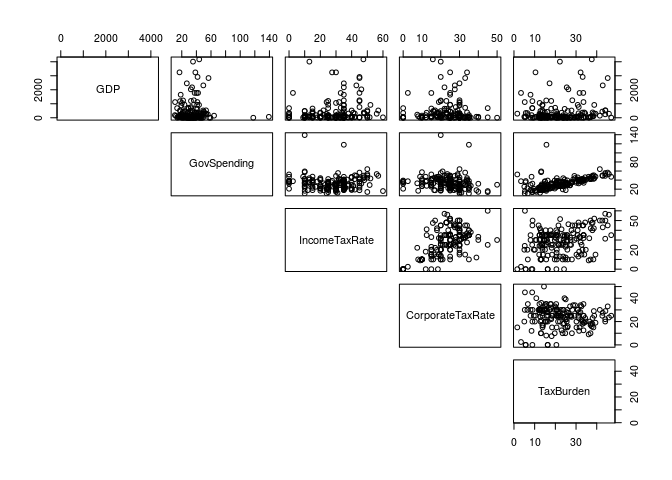
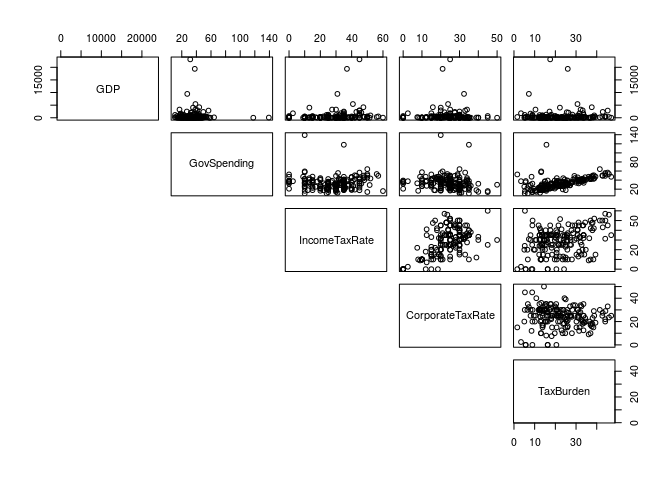
Introduction edited + Scatter matrix

diff --git a/01-proposal/proposal.md b/01-proposal/proposal.md
@@ -7,14 +7,14 @@ Rtists
 library(tidyverse)
 ```
 
-    ## ── Attaching packages ─────────────────────────────────────────────────────────────── tidyverse 1.2.1 ──
+    ## ── Attaching packages ────────────────────────────────────────────────────────────────────────────────── tidyverse 1.2.1 ──
 
     ## ✔ ggplot2 3.2.1     ✔ purrr   0.3.2
     ## ✔ tibble  2.1.3     ✔ dplyr   0.8.3
     ## ✔ tidyr   0.8.3     ✔ stringr 1.4.0
     ## ✔ readr   1.3.1     ✔ forcats 0.4.0
 
-    ## ── Conflicts ────────────────────────────────────────────────────────────────── tidyverse_conflicts() ──
+    ## ── Conflicts ───────────────────────────────────────────────────────────────────────────────────── tidyverse_conflicts() ──
     ## ✖ dplyr::filter() masks stats::filter()
     ## ✖ dplyr::lag()    masks stats::lag()
 
@@ -41,21 +41,35 @@ col_types = c("text", "text", "text",
 
 ## Section 1. Introduction
 
-GDP is a measure of how productive a given country or region is based on
-the value of the goods and services that it produces. Consequently, a
-high GDP signals that a country has a great deal of economic influence.
-As emerging markets continue to industrialize, the question of how one
+GDP is a measure of the total market value of all goods and services
+produced within a country over a period of time. Consequently, a high
+GDP implies that a country has significant economic influence. As
+emerging markets continue to industrialize, the question of how one
 achieves a larger GDP is becoming a critical one in policy selection;
 failure to design policies that encourage GDP growth can cause
 widespread suffering for a country’s population. Consider the case of
 Venezuela, where GDP-friendly policies were shunned and massive unrest
 appeared as a nearly direct consequence. In order to avoid this fate,
 nations must analyze which economic sectors are most influential on GDP
-in order to create guiding policies. In this project, we will address
-the research question of what predictors are most useful in predicting
-GDP and to what extent GDP can be predicted successfully; we expect that
-factors such as population, inflation, GovInterference, and TaxBurden
-will most effectively predict GDP.
+in order to create guiding policies.
+
+The use of multiple linear regression in the study of GDP and GDP growth
+is not novel. The approach has been widely employed by economists. For
+instance, Anghelache et. al has employed multiple linear regression
+model in analyzing the influence of final consumption and gross
+investment on Romania’s GDP over time. Urrutia et. al, on the other
+hand, modeled Philippines’s real GDP using multiple linear regression
+techniques. (Refer to citation of articles in the Citation section)
+
+In this project, we will address the research question of what
+predictors are most useful in predicting GDP and to what extent GDP can
+be predicted successfully; we expect that factors such as population,
+inflation, GovInterference, and TaxBurden will most effectively predict
+GDP. The predictor variables used in our analysis are used in the
+calculation of the annual Economic Freedom Index. These predictors are
+not traditionally used in the multiple linear regression of GDP and we
+are interested to know the composite strength of these particular
+predictor variables.
 
 ## Section 2. Regression Analysis
 
@@ -82,36 +96,9 @@ glimpse(economic_data)
     ## $ PublicDebt       <dbl> 7.3, 71.2, 25.8, 65.3, 52.6, 53.5, 41.6, 78.8, …
 
 We first take an overview of the data. We can see that there are 193
-observations — one observation corresponds to one country, and 16
+observations — one observation corresponds to one country, and 15
 variables, including country name, 14 predictor variables and one
-response variable that we want to predict, the happiness score.
-
-``` r
-temp <- economic_data %>%
-  filter(GDP<5000)
-
-pairs(GDP ~ TariffRate + Population + Unemployment + Inflation + PublicDebt, data=temp, lower.panel = NULL)
-```
-
-![](proposal_files/figure-gfm/scatterplot%20matrix-1.png)<!-- -->
-
-``` r
-pairs(GDP ~ GovSpending + IncomeTaxRate + CorporateTaxRate + TaxBurden, data=temp, lower.panel = NULL)
-```
-
-![](proposal_files/figure-gfm/scatterplot%20matrix-2.png)<!-- -->
-
-``` r
-ggplot(data = temp, mapping = aes(x = TaxBurden, y = GDP)) +
-  geom_point() + 
-  labs(x = "Tax Burden (% of Country's GDP)",
-       y = "Frequency",
-       title = "Distribution of Tax Burden")
-```
-
-    ## Warning: Removed 4 rows containing missing values (geom_point).
-
-![](proposal_files/figure-gfm/scatterplot%20matrix-3.png)<!-- -->
+response variable that we want to predict, GDP.
 
 ``` r
 ggplot(data = economic_data, mapping = aes(x = TaxBurden)) +
@@ -137,7 +124,7 @@ skim()
     ##  n obs: 185 
     ##  n variables: 1 
     ## 
-    ## ── Variable type:numeric ───────────────────────────────────────────────────────────────────────────────
+    ## ── Variable type:numeric ──────────────────────────────────────────────────────────────────────────────────────────────────
     ##   variable missing complete   n  mean    sd  p0   p25   p50   p75 p100
     ##  TaxBurden       7      178 185 22.19 10.17 1.6 14.12 20.75 30.02   47
     ##      hist
@@ -170,7 +157,7 @@ skim()
     ##  n obs: 185 
     ##  n variables: 1 
     ## 
-    ## ── Variable type:numeric ───────────────────────────────────────────────────────────────────────────────
+    ## ── Variable type:numeric ──────────────────────────────────────────────────────────────────────────────────────────────────
     ##     variable missing complete   n  mean    sd   p0  p25  p50  p75  p100
     ##  GovSpending       4      181 185 33.87 15.52 10.6 24.5 32.3 40.3 139.2
     ##      hist
@@ -206,7 +193,7 @@ skim()
     ##  n obs: 185 
     ##  n variables: 1 
     ## 
-    ## ── Variable type:numeric ───────────────────────────────────────────────────────────────────────────────
+    ## ── Variable type:numeric ──────────────────────────────────────────────────────────────────────────────────────────────────
     ##    variable missing complete   n  mean     sd  p0  p25  p50   p75   p100
     ##  Population       1      184 185 40.37 145.52 0.1 2.77 9.15 29.62 1390.1
     ##      hist
@@ -239,7 +226,7 @@ skim()
     ##  n obs: 185 
     ##  n variables: 1 
     ## 
-    ## ── Variable type:numeric ───────────────────────────────────────────────────────────────────────────────
+    ## ── Variable type:numeric ──────────────────────────────────────────────────────────────────────────────────────────────────
     ##    variable missing complete   n  mean     sd  p0  p25  p50   p75   p100
     ##  Population       1      184 185 40.37 145.52 0.1 2.77 9.15 29.62 1390.1
     ##      hist
@@ -272,7 +259,7 @@ skim()
     ##  n obs: 185 
     ##  n variables: 1 
     ## 
-    ## ── Variable type:numeric ───────────────────────────────────────────────────────────────────────────────
+    ## ── Variable type:numeric ──────────────────────────────────────────────────────────────────────────────────────────────────
     ##      variable missing complete   n mean   sd  p0  p25 p50  p75 p100
     ##  Unemployment       6      179 185 7.39 5.68 0.1 3.75 5.7 9.35 27.3
     ##      hist
@@ -318,7 +305,7 @@ skim()
     ##  n obs: 185 
     ##  n variables: 1 
     ## 
-    ## ── Variable type:numeric ───────────────────────────────────────────────────────────────────────────────
+    ## ── Variable type:numeric ──────────────────────────────────────────────────────────────────────────────────────────────────
     ##   variable missing complete   n  mean    sd   p0 p25 p50 p75   p100
     ##  Inflation       4      181 185 10.61 80.73 -0.9 1.3 2.7 5.3 1087.5
     ##      hist
@@ -421,7 +408,7 @@ skim()
     ##  n obs: 185 
     ##  n variables: 1 
     ## 
-    ## ── Variable type:numeric ───────────────────────────────────────────────────────────────────────────────
+    ## ── Variable type:numeric ──────────────────────────────────────────────────────────────────────────────────────────────────
     ##    variable missing complete   n mean   sd p0 p25 p50 p75 p100     hist
     ##  TariffRate       4      181 185 5.96 5.54  0   2 4.3 8.7   50 ▇▃▁▁▁▁▁▁
 
@@ -453,7 +440,7 @@ skim()
     ##  n obs: 185 
     ##  n variables: 1 
     ## 
-    ## ── Variable type:numeric ───────────────────────────────────────────────────────────────────────────────
+    ## ── Variable type:numeric ──────────────────────────────────────────────────────────────────────────────────────────────────
     ##       variable missing complete   n  mean   sd p0 p25 p50 p75 p100
     ##  IncomeTaxRate       3      182 185 28.23 13.4  0  20  30  35   60
     ##      hist
@@ -489,7 +476,7 @@ skim()
     ##  n obs: 185 
     ##  n variables: 1 
     ## 
-    ## ── Variable type:numeric ───────────────────────────────────────────────────────────────────────────────
+    ## ── Variable type:numeric ──────────────────────────────────────────────────────────────────────────────────────────────────
     ##          variable missing complete   n  mean   sd p0 p25 p50 p75 p100
     ##  CorporateTaxRate       3      182 185 23.89 8.88  0  20  25  30   50
     ##      hist
@@ -523,7 +510,7 @@ skim()
     ##  n obs: 185 
     ##  n variables: 1 
     ## 
-    ## ── Variable type:numeric ───────────────────────────────────────────────────────────────────────────────
+    ## ── Variable type:numeric ──────────────────────────────────────────────────────────────────────────────────────────────────
     ##    variable missing complete   n  mean   sd p0  p25  p50  p75  p100
     ##  PublicDebt       4      181 185 56.32 34.2  0 34.9 49.4 69.9 236.4
     ##      hist
@@ -532,7 +519,47 @@ skim()
 The distribution of public debt is unimodal and right skewed. There are
 several outliers with public debt more than 175%. The mode of the
 distribution is around 30%. The median public debt is 49.4% and the
-interquartile range is 35%.
+interquartile range is
+35%.
+
+``` r
+pairs(GDP ~ TariffRate + Population + Unemployment + Inflation + PublicDebt, data=economic_data, lower.panel = NULL)
+```
+
+![](proposal_files/figure-gfm/scatterplot%20matrix-1.png)<!-- -->
+
+``` r
+pairs(GDP ~ GovSpending + IncomeTaxRate + CorporateTaxRate + TaxBurden, data=economic_data, lower.panel = NULL)
+```
+
+![](proposal_files/figure-gfm/scatterplot%20matrix-2.png)<!-- -->
+
+``` r
+temp <- economic_data %>%
+  filter(GDP<5000)
+
+pairs(GDP ~ TariffRate + Population + Unemployment + Inflation + PublicDebt, data=temp, lower.panel = NULL)
+```
+
+![](proposal_files/figure-gfm/scatterplot%20matrix-3.png)<!-- -->
+
+``` r
+pairs(GDP ~ GovSpending + IncomeTaxRate + CorporateTaxRate + TaxBurden, data=temp, lower.panel = NULL)
+```
+
+![](proposal_files/figure-gfm/scatterplot%20matrix-4.png)<!-- -->
+
+``` r
+ggplot(data = temp, mapping = aes(x = TaxBurden, y = GDP)) +
+  geom_point() + 
+  labs(x = "Tax Burden (% of Country's GDP)",
+       y = "Frequency",
+       title = "Distribution of Tax Burden")
+```
+
+    ## Warning: Removed 4 rows containing missing values (geom_point).
+
+![](proposal_files/figure-gfm/scatterplot%20matrix-5.png)<!-- -->
 
 ## Section 3. Regression Analysis Plan
 
